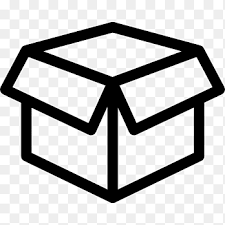
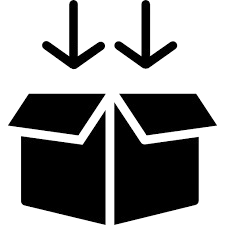
traccia ordine

diff --git a/Aeki/js/orderTracking.js b/Aeki/js/orderTracking.js
@@ -3,25 +3,15 @@ document.addEventListener("DOMContentLoaded", () => {
 
     trackButtons.forEach(button => {
         button.addEventListener("click", () => {
-            const orderId = button.getAttribute("data-idordine");
-            const orderDate = new Date(button.getAttribute("data-dataordine"));
-            const products = JSON.parse(button.getAttribute("data-prodotti"));
+            const orderId = button.getAttribute("data-idOrdine");
+            const stateCode = button.getAttribute("data-codiceStato");
+            const shippingDay = button.getAttribute("data-giorniSpedizione");
 
-            const today = new Date();
-            let orderState = 0;
-
-            if (products.every(product => product.ProdottoSpedito === 'Y')) {
-                orderState = 1;
-                if (orderDate <= today) {
-                    orderState = 2;
-                }
-            }
-
-            showOrderPopup(orderId, orderState);
+            showOrderPopup(orderId, stateCode, shippingDay);
         });
     });
 
-    function showOrderPopup(orderId, orderState) {
+    function showOrderPopup(orderId, stateCode, shippingDay) {
         const popupHTML = `
         <div class="modal fade" id="orderPopup" tabindex="-1" aria-labelledby="orderPopupLabel" aria-hidden="true">
             <div class="modal-dialog modal-lg modal-dialog-centered">
@@ -30,16 +20,16 @@ document.addEventListener("DOMContentLoaded", () => {
                         <h5 class="modal-title" id="orderPopupLabel">Stato dell'Ordine #${orderId}</h5>
                         <button type="button" class="btn-close" data-bs-dismiss="modal" aria-label="Close"></button>
                     </div>
-                    <div class="modal-body">
+                    <div class="modal-body p-5">
                         <div class="text-center mb-4">
-                            <div class="d-flex justify-content-between align-items-center">
+                            <div class="d-flex justify-content-between">
                                 <!-- 1 -->
                                 <div>
                                     <img src="upload/in_preparazione.png" alt="In preparazione" class="img-fluid mb-2" style="width: 100px;">
                                     <p class = "fw-semibold">In preparazione</p>
                                 </div>
                                 <!-- 2 -->
-                                <div>
+                                <div class = "mt-auto">
                                     <img src="upload/spedito.png" alt="Spedito" class="img-fluid mb-2" style="width: 100px;">
                                     <p class = "fw-semibold">Spedito</p>
                                 </div>
@@ -55,19 +45,22 @@ document.addEventListener("DOMContentLoaded", () => {
                         <div class="position-relative">
                             <div class="progress" style="height: 12px;">
                                 <div class="progress-bar " role="progressbar" 
-                                     style="width: ${orderState * 50}%;background-color: ${orderState >= 0 ? '#000060' : '#000060'};">
+                                     style="width: ${stateCode * 50}%;background-color: ${stateCode >= 0 ? '#000060' : '#000060'};">
                                 </div>
                             </div>
                             
                             <!-- Phase Markers -->
-                            <div class="position-absolute top-50 start-0 translate-middle" style="width: 20px; height: 20px; background-color: #000060; display:${orderState === 0 ? 'inline-block' : 'none'};border-radius: 50%;"></div>
-                            <div class="position-absolute top-50 start-50 translate-middle" style="width: 20px; height: 20px; background-color: #000060; display:${orderState === 1 ? 'inline-block' : 'none'};border-radius: 50%;"></div>
-                            <div class="position-absolute top-50 start-100 translate-middle" style="width: 20px; height: 20px; background-color: #000060; display:${orderState === 2 ? 'inline-block' : 'none'};border-radius: 50%;"></div>
+                            <div class="position-absolute top-50 start-0 translate-middle" style="width: 16px; height: 16px; background-color:${stateCode >= 0 ? '#000060' : '#D2D2D2'};border-radius: 50%;"></div>
+                            <div class="position-absolute top-50 start-50 translate-middle" style="width: 16px; height: 16px; background-color:${stateCode >= 1 ? '#000060' : '#D2D2D2'};border-radius: 50%;"></div>
+                            <div class="position-absolute top-50 start-100 translate-middle" style="width: 16px; height: 16px; background-color:${stateCode >= 2 ? '#000060' : '#D2D2D2'};border-radius: 50%;"></div>
                         </div>
                         <div class = "mt-4">
-                        <span class = "fw-semibold">${orderState === 0 ? 'Il tuo pacco è in fase di preparazione!' : ''}</span>
-                        <span class = "fw-semibold">${orderState === 1 ? 'Il tuo pacco è stato spedito!' : ''}</span>
-                        <span class = "fw-semibold">${orderState === 2 ? 'Il tuo pacco è stato consegnato!' : ''}</span>
+                        <span class = "fw-semibold">${stateCode == 0 ? 'Il tuo pacco è in fase di preparazione!' : ''}</span>
+                        <span class = "fw-semibold">${stateCode == 1 ? 'Il tuo pacco è stato spedito!' : ''}</span>
+                        <span class = "fw-semibold">${stateCode == 2 ? 'Il tuo pacco è stato consegnato!' : ''}</span>
+                        <p class="fw-semibold">${stateCode < 2 ? `La data stimata di consegna è: ${shippingDay}` : `Data di consegna: ${shippingDay}`}</p>
+
+                        
                         </div>
                     </div>
                     <div class="modal-footer">

diff --git a/Aeki/template/orderList_main.php b/Aeki/template/orderList_main.php
@@ -25,12 +25,13 @@
                 <!--Single Product -->
                 <div class = " row justify-content-center align-items-center border rounded-3 shadow-sm bg-white p-3 mb-3 ">
                     <div class = "col-md-2 col-6 ">
-                        <img src="<?php echo $prodotto["PercorsoImg"] ?>" alt="img" class="img-fluid"onerror="this.onerror=null; this.src='upload/not-found-image.png'">
+                        <img src="<?php echo $prodotto["PercorsoImg"] ?>" alt="Prodotto <?php echo $prodotto["Nome"] ?>" class="img-fluid">
                     </div>
-                    <div class = "col-md-10 col-12 flex-column  ps-md-5">
-                        <div class = "d-flex flex-column mb-4">
+                    <div class = "col-md-10 col-12 d-flex justify-content-center justify-content-md-start ps-md-5">
+                      <div class ="flex-column">
+                        <div class = "d-flex flex-column align-items-center align-items-md-start mb-4">
                           <h2 style = "color:#000070"><?php echo $prodotto["Nome"] ?> </h2>
-                          <span class="fs-4 me-4">Quantità : <span class = "fw-semibold"><?php echo $prodotto["Quantita"] ?></span></span>
+                          <span class="fs-4 ">Quantità : <span class = "fw-semibold"><?php echo $prodotto["Quantita"] ?></span></span>
                           <span class="fs-4 ">Prezzo Pagato: <span class = "fw-semibold"><?php echo $prodotto["PrezzoPagato"] ?> €</span></span>
                         </div>
                         <?php if($prodotto["Rimosso"] == 'N'):?>
@@ -41,6 +42,7 @@
                         <?php else: ?>
                             <span class = "fs-5 text-muted">(Questo prodotto è stato rimosso dal venditore)</span>
                         <?php endif;?>
+                      </div>
                     </div>
                 </div>
                 <?php endforeach; ?>
@@ -51,9 +53,9 @@
                       type="button" 
                       class="btn btn-lg" 
                       id="traccia-<?php echo $ordine["IDordine"]; ?>"
-                      data-idordine="<?php echo $ordine["IDordine"]; ?>"
-                      data-dataordine="<?php echo $ordine["Data"]; ?>"
-                      data-prodotti='<?php echo json_encode($ordine["prodotti"]); ?>'
+                      data-idOrdine="<?php echo $ordine["IDordine"]; ?>"
+                      data-codiceStato="<?php echo $ordine["CodiceStato"]; ?>"
+                      data-giorniSpedizione="<?php echo $ordine["GiorniSpedizione"]; ?>"
                       style="background-color: #000060; color: #FFFFFF">
                       Traccia il mio pacco
                   </button>

diff --git a/Aeki/db/database.php b/Aeki/db/database.php
@@ -522,7 +522,7 @@ class DatabaseHelper{
     //ORDERS
 
     public function getOrdini($username){
-        $stmt = $this->db->prepare("SELECT IDordine ,Data FROM Ordine WHERE Username=?");
+        $stmt = $this->db->prepare("SELECT IDordine ,Data,CodiceStato,GiorniSpedizione,PrezzoSpedizione FROM Ordine WHERE Username=? ORDER BY Data DESC");
         $stmt->bind_param('s',$username);
         $stmt->execute();
         $result = $stmt->get_result();
@@ -615,6 +615,29 @@ class DatabaseHelper{
             
             $stmt->bind_param('is', $idOrdine,$seller);
             $stmt->execute();
+            //dopo aver tracciato come spediti i suoi prodotti per quell ordine controlla se quell ordine è pronto 
+            //per partire o meno(e quindi se tutti i suoi prodotti sono stati Spediti)
+            $stmt1 = $this->db->prepare("SELECT COUNT(*) = COUNT(CASE WHEN do.ProdottoSpedito = 'Y' THEN 1 END) AS tuttiSpediti
+                                        FROM DettaglioOrdine AS do
+                                        JOIN Ordine AS o ON o.IDordine = do.IDordine
+                                        WHERE do.IDOrdine = ?
+                                        ");
+
+            $stmt1->bind_param('i', $idOrdine);
+            $stmt1->execute();
+            $result = $stmt1->get_result()->fetch_assoc();
+            $tuttiSpediti = $result["tuttiSpediti"];
+
+            if ($tuttiSpediti) {
+                $stmt2 = $this->db->prepare("
+                    UPDATE Ordine 
+                    SET CodiceStato = 1 
+                    WHERE IDordine = ?");
+                $stmt2->bind_param('i', $idOrdine);
+                $stmt2->execute();
+
+                $this->notifyOrderShipped($idOrdine);
+            }
             return json_encode([
                 'success' => true,
                 'message' => 'ordine spedito con successo'
@@ -624,8 +647,21 @@ class DatabaseHelper{
             'success' => false,
             'message' => 'Errore SQL: ' . $e->getMessage()
         ]);
+        }
+    }
 
-}
+    public function notifyOrderShipped($idOrdine){
+        $data = date('Y-m-d H:i:s');
+        $testo = "Il tuo ordine #$idOrdine è stato spedito";
+
+        $stmt = $this->db->prepare("
+            INSERT INTO `Notifica` (`Username`, `Testo`, `Data`)
+            SELECT Username, ?, ?
+            FROM Ordine
+            WHERE IDordine = ?
+        ");
+        $stmt->bind_param('ssi', $testo, $data,$idOrdine);
+        $stmt->execute();
     }
 
 

diff --git a/Aeki/Ajax/seller/api-seller-product.php b/Aeki/Ajax/seller/api-seller-product.php
@@ -57,7 +57,7 @@ if (isset($data['action'])) {
                 $result = $dbh->updateProductAvailability($codiceProdotto, $nuovaDisponibilita);
 
                 if($data['vecchiaDisponibilita'] == 0){
-                    $testo = "Il prodotto $codiceProdotto è tornato disponibile!";
+                    $testo = "Il prodotto #$codiceProdotto è tornato disponibile!";
                     $dbh->notifyCartChange($codiceProdotto,$testo);
                 }
                
@@ -72,7 +72,7 @@ if (isset($data['action'])) {
             if (isset($data['codiceProdotto']) && isset($data['nuovoPrezzo'])) {
                 $codiceProdotto = $data['codiceProdotto'];
                 $nuovoPrezzo = $data['nuovoPrezzo'];
-                $testo = "Il prodotto $codiceProdotto ha subito una variazione di prezzo!";
+                $testo = "Il prodotto #$codiceProdotto ha subito una variazione di prezzo!";
 
                 $result = $dbh->updateProductPrice($codiceProdotto, $nuovoPrezzo);
                 $dbh->notifyCartChange($codiceProdotto,$testo);
@@ -86,7 +86,6 @@ if (isset($data['action'])) {
                 $idOrdine = $data['idOrdine'];
 
                 $result = $dbh->sendOrder($idOrdine,$seller);
-                //$dbh->notifyCartChange($codiceProdotto,$testo);
                 echo $result;
             } else {
                 echo json_encode(['success' => false, 'message' => 'Dati insufficienti']);
